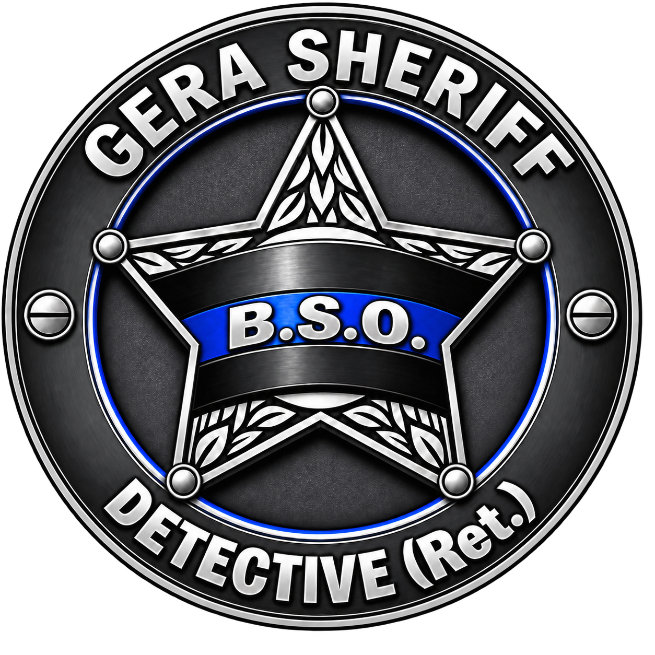
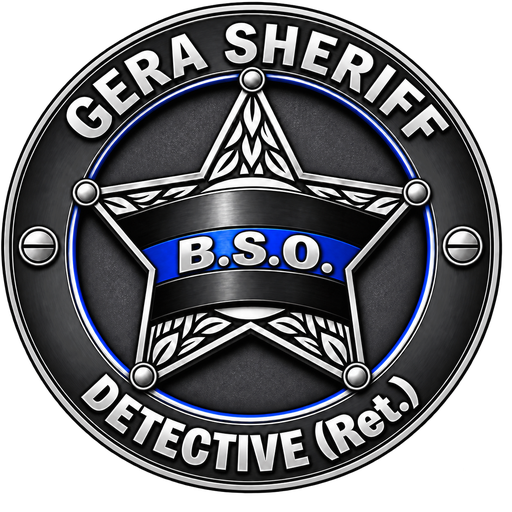
Update paywall CTA to Subscribe and add Gera Sheriff badge.
Replaces Continue Subscribe copy and shows the badge logo above the paywall title.

diff --git a/src/i18n/translations.ts b/src/i18n/translations.ts
@@ -211,7 +211,7 @@ const en = {
   paywallPerMonth: 'per month',
   paywallLifetime: 'Lifetime',
   paywallOneTime: 'one-time',
-  paywallContinue: 'Continue Subscribe',
+  paywallContinue: 'Subscribe',
   paywallRenewNote: 'Subscriptions automatically renew. Cancel anytime.',
   paywallAgreePrefix: 'By continuing, you agree to our',
   paywallTerms: 'Terms of Use',
@@ -496,7 +496,7 @@ const ru: typeof en = {
   paywallPerMonth: 'в месяц',
   paywallLifetime: 'Навсегда',
   paywallOneTime: 'один раз',
-  paywallContinue: 'Продолжить',
+  paywallContinue: 'Подписаться',
   paywallRenewNote: 'Подписка продлевается автоматически. Отменить можно в любое время.',
   paywallAgreePrefix: 'Продолжая, вы соглашаетесь с',
   paywallTerms: 'Условиями использования',
@@ -779,7 +779,7 @@ const es: typeof en = {
   paywallPerMonth: 'al mes',
   paywallLifetime: 'De por vida',
   paywallOneTime: 'pago único',
-  paywallContinue: 'Continuar',
+  paywallContinue: 'Suscribirse',
   paywallRenewNote: 'La suscripción se renueva automáticamente. Cancela cuando quieras.',
   paywallAgreePrefix: 'Al continuar, aceptas nuestros',
   paywallTerms: 'Términos de uso',
@@ -1062,7 +1062,7 @@ const pt: typeof en = {
   paywallPerMonth: 'por mês',
   paywallLifetime: 'Vitalício',
   paywallOneTime: 'pagamento único',
-  paywallContinue: 'Continuar',
+  paywallContinue: 'Assinar',
   paywallRenewNote: 'A assinatura renova automaticamente. Cancele a qualquer momento.',
   paywallAgreePrefix: 'Ao continuar, você concorda com nossos',
   paywallTerms: 'Termos de uso',
@@ -1345,7 +1345,7 @@ const ht: typeof en = {
   paywallPerMonth: 'pa mwa',
   paywallLifetime: 'Pou lavi',
   paywallOneTime: 'yon sèl fwa',
-  paywallContinue: 'Kontinye',
+  paywallContinue: 'Abòne',
   paywallRenewNote: 'Abònman an renouvle otomatikman. Anile nenpòt lè.',
   paywallAgreePrefix: 'Lè w kontinye, ou dakò ak',
   paywallTerms: 'Kondisyon Itilizasyon',

diff --git a/src/components/PaywallGate.tsx b/src/components/PaywallGate.tsx
@@ -1,6 +1,7 @@
 import React, { useState } from 'react';
 import {
   ActivityIndicator,
+  Image,
   Linking,
   Pressable,
   StyleSheet,
@@ -74,6 +75,11 @@ export function PaywallGate({ children }: Props) {
       ]}
     >
       <View style={styles.header}>
+        <Image
+          source={require('../../assets/gera-sheriff-badge.png')}
+          style={styles.logo}
+          accessibilityLabel="Gera Sheriff badge"
+        />
         <AppText variant="hero" style={styles.brand}>
           {t('appName')}
         </AppText>
@@ -203,6 +209,11 @@ const styles = StyleSheet.create({
   header: {
     alignItems: 'center',
     marginBottom: spacing.xl,
+  },
+  logo: {
+    width: 112,
+    height: 112,
+    marginBottom: spacing.md,
   },
   brand: {
     textAlign: 'center',
